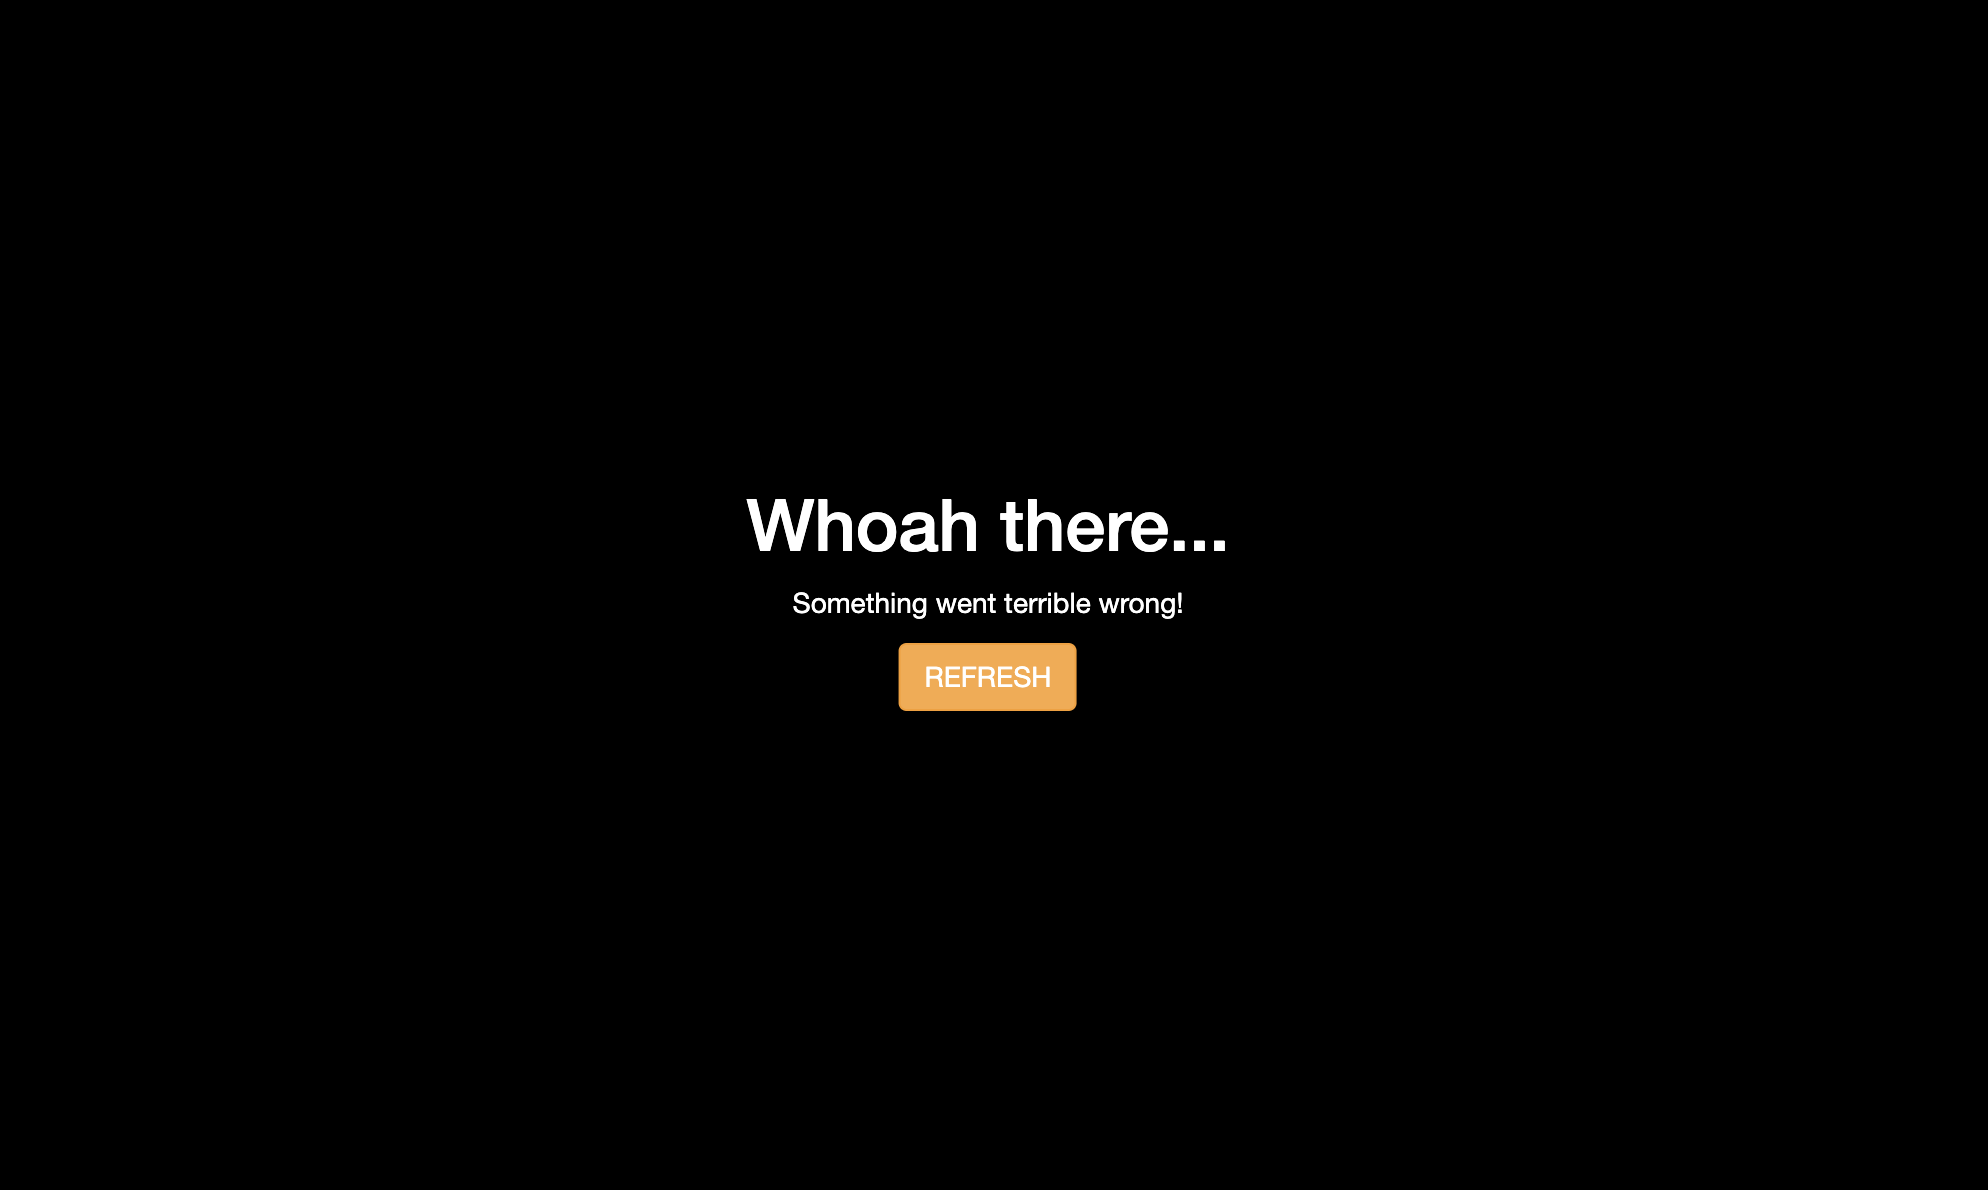
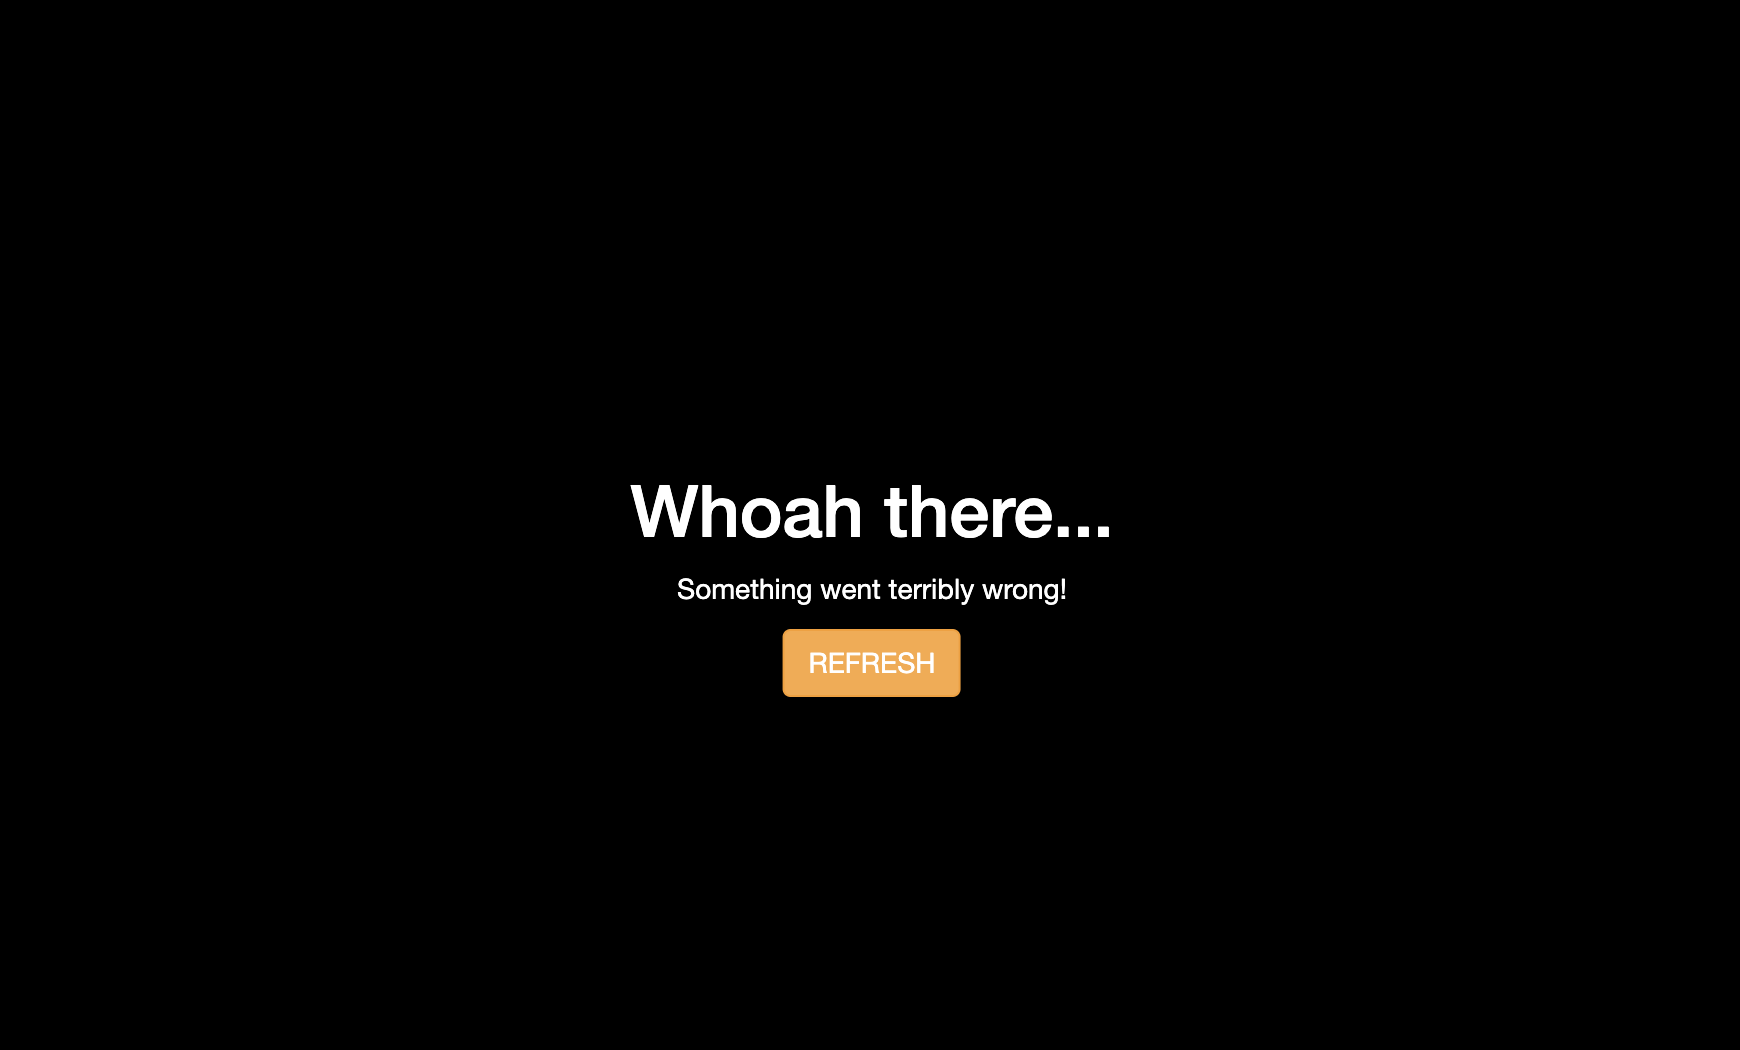
correct example sever

Changed region(s): [[0.3414, 0.3962, 0.6517, 0.6705]]

diff --git a/docs/site/index.html b/docs/site/index.html
@@ -65,17 +65,13 @@
     <a class="current" href=".">Home</a>
     <ul class="subnav">
             
-    <li class="toctree-l2"><a href="#sever">sever</a></li>
+    <li class="toctree-l2"><a href="#install">Install</a></li>
     
-        <ul>
-        
-            <li><a class="toctree-l3" href="#install">Install</a></li>
-        
-            <li><a class="toctree-l3" href="#usage">Usage</a></li>
-        
-            <li><a class="toctree-l3" href="#example">Example</a></li>
-        
-        </ul>
+
+    <li class="toctree-l2"><a href="#usage">Usage</a></li>
+    
+
+    <li class="toctree-l2"><a href="#example">Example</a></li>
     
 
     </ul>
@@ -140,13 +136,13 @@
           <div role="main">
             <div class="section">
               
-                <h1 id="sever">sever</h1>
-<p>Good-looking problems: customise your Shiny disconnected screen and error messages.</p>
+                <p>Good-looking problems: customise your Shiny disconnected screen and error messages.</p>
 <!-- badges: start -->
 
 <p><a href="https://travis-ci.org/JohnCoene/sever"><img alt="Travis build status" src="https://travis-ci.org/JohnCoene/sever.svg?branch=master" /></a>
 <a href="https://ci.appveyor.com/project/JohnCoene/sever"><img alt="AppVeyor build status" src="https://ci.appveyor.com/api/projects/status/github/JohnCoene/sever?branch=master&amp;svg=true" /></a>
 <a href="https://circleci.com/gh/JohnCoene/sever"><img alt="CircleCI build status" src="https://circleci.com/gh/JohnCoene/sever.svg?style=svg" /></a>
+<a href="https://www.tidyverse.org/lifecycle/#experimental"><img alt="Lifecycle: experimental" src="https://img.shields.io/badge/lifecycle-experimental-orange.svg" /></a>
 <!-- badges: end -->
 <!-- Place this tag where you want the button to render. -->
 <a class="github-button" href="https://github.com/JohnCoene/sever" data-show-count="true" aria-label="Star JohnCoene/sever on GitHub">Star</a>
@@ -234,5 +230,5 @@ shinyApp(ui, server)
 
 <!--
 MkDocs version : 1.0.4
-Build Date UTC : 2020-02-13 13:17:44
+Build Date UTC : 2020-02-13 14:10:28
 -->

diff --git a/docs/site/sever/index.html b/docs/site/sever/index.html
@@ -169,7 +169,7 @@ library(sever)
 
 disconnected &lt;- tagList(
   h1(&quot;Whoah there...&quot;),
-  p(&quot;Something went terrible wrong!&quot;),
+  p(&quot;Something went terribly wrong!&quot;),
   reload_button(&quot;REFRESH&quot;, class = &quot;warning&quot;)
 )
 

diff --git a/docs/docs/index.md b/docs/docs/index.md
@@ -1,11 +1,10 @@
-# sever
-
 Good-looking problems: customise your Shiny disconnected screen and error messages.
 
 <!-- badges: start -->
 [![Travis build status](https://travis-ci.org/JohnCoene/sever.svg?branch=master)](https://travis-ci.org/JohnCoene/sever)
 [![AppVeyor build status](https://ci.appveyor.com/api/projects/status/github/JohnCoene/sever?branch=master&svg=true)](https://ci.appveyor.com/project/JohnCoene/sever)
 [![CircleCI build status](https://circleci.com/gh/JohnCoene/sever.svg?style=svg)](https://circleci.com/gh/JohnCoene/sever)
+[![Lifecycle: experimental](https://img.shields.io/badge/lifecycle-experimental-orange.svg)](https://www.tidyverse.org/lifecycle/#experimental)
 <!-- badges: end -->
 <!-- Place this tag where you want the button to render. -->
 <a class="github-button" href="https://github.com/JohnCoene/sever" data-show-count="true" aria-label="Star JohnCoene/sever on GitHub">Star</a>

diff --git a/README.md b/README.md
@@ -6,6 +6,7 @@
 [![Travis build status](https://travis-ci.org/JohnCoene/sever.svg?branch=master)](https://travis-ci.org/JohnCoene/sever)
 [![AppVeyor build status](https://ci.appveyor.com/api/projects/status/github/JohnCoene/sever?branch=master&svg=true)](https://ci.appveyor.com/project/JohnCoene/sever)
 [![CircleCI build status](https://circleci.com/gh/JohnCoene/sever.svg?style=svg)](https://circleci.com/gh/JohnCoene/sever)
+[![Lifecycle: experimental](https://img.shields.io/badge/lifecycle-experimental-orange.svg)](https://www.tidyverse.org/lifecycle/#experimental)
 <!-- badges: end -->
 
 Good-looking problems: customise your Shiny disconnected screen and error messages.

diff --git a/docs/docs/sever.md b/docs/docs/sever.md
@@ -34,7 +34,7 @@ library(sever)
 
 disconnected <- tagList(
   h1("Whoah there..."),
-  p("Something went terrible wrong!"),
+  p("Something went terribly wrong!"),
   reload_button("REFRESH", class = "warning")
 )
 
